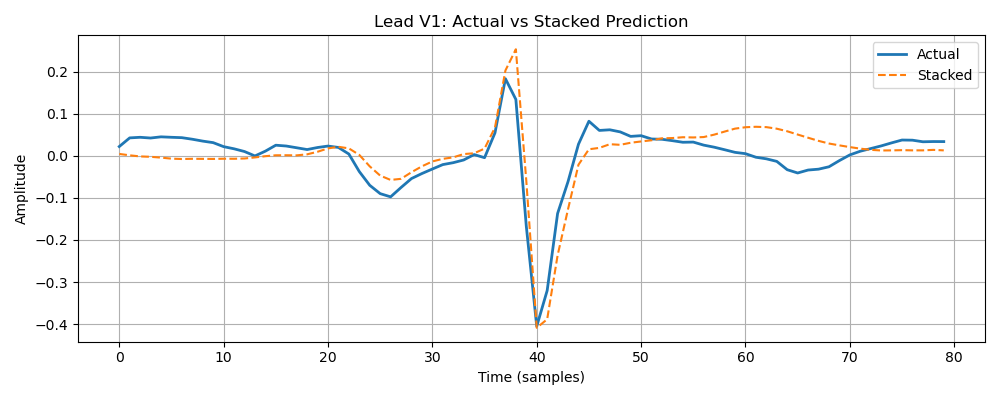
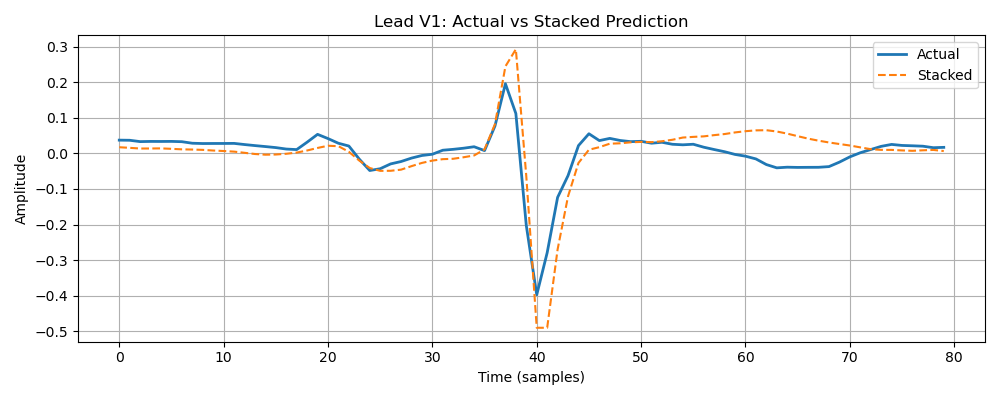
I, II, V2 (PQRST, Stats, Freq, Metadata, RR, PR, ST, QT). Stacking XGB + MLP. The best results so far.

diff --git a/QRS_to_Multilead_Reconstruction/PQRST_80_Extractor.py b/QRS_to_Multilead_Reconstruction/PQRST_80_Extractor.py
@@ -1,5 +1,5 @@
 # Modified to use V2 as an input like leads I and II
-# and V3 moved to other_leads to be predicted
+# Now saves rr1, rr2, rr3 (in seconds) for each segment
 
 import os
 import joblib
@@ -34,7 +34,6 @@ encoded_features = []
 if encoded_feats_path.exists():
     with open(encoded_feats_path, 'r') as f:
         encoded_features = [line.strip() for line in f.readlines()]
-
 
 def extract_stat_features(segment):
     hist, _ = np.histogram(segment, bins=10, density=True)
@@ -106,7 +105,7 @@ def build_dataset_with_stats(ecg_dataset, meta_df):
         r_v2 = nk.ecg_peaks(nk.ecg_clean(lead_v2, sampling_rate), sampling_rate)[1]['ECG_R_Peaks']
         r_v3 = nk.ecg_peaks(nk.ecg_clean(lead_v3, sampling_rate), sampling_rate)[1]['ECG_R_Peaks']
 
-        if len(r_i) == 0 or len(r_ii) == 0 or len(r_v2) == 0 or len(r_v3) == 0:
+        if len(r_i) < 2 or len(r_ii) < 2 or len(r_v2) < 2 or len(r_v3) == 0:
             continue
 
         p_i, q_i, r_i, s_i, t_i = find_qspt(lead_i, r_i, sampling_rate)
@@ -114,7 +113,8 @@ def build_dataset_with_stats(ecg_dataset, meta_df):
         p_v2, q_v2, r_v2, s_v2, t_v2 = find_qspt(lead_v2, r_v2, sampling_rate)
         p_v3, q_v3, r_v3, s_v3, t_v3 = find_qspt(lead_v3, r_v3, sampling_rate)
 
-        for j, r in enumerate(r_i):
+        for j in range(1, len(r_i)):
+            r = r_i[j]
             if j >= len(p_i) or j >= len(q_i) or j >= len(s_i) or j >= len(t_i):
                 continue
             r_ii_idx = np.argmin(np.abs(r_ii - r))
@@ -128,7 +128,7 @@ def build_dataset_with_stats(ecg_dataset, meta_df):
                 segment_i = lead_i[start:end]
                 segment_ii = lead_ii[start:end]
                 segment_v2 = lead_v2[start:end]
-                segment_v3 = lead_v3[start:end]
+                segment_v3 = lead_v2[start:end]
 
                 stats_i = extract_stat_features(segment_i)
                 stats_ii = extract_stat_features(segment_ii)
@@ -137,6 +137,10 @@ def build_dataset_with_stats(ecg_dataset, meta_df):
                 freq_i = extract_freq_features(segment_i, fs=sampling_rate)
                 freq_ii = extract_freq_features(segment_ii, fs=sampling_rate)
                 freq_v2 = extract_freq_features(segment_v2, fs=sampling_rate)
+
+                rr1 = (r_i[j] - r_i[j - 1]) / sampling_rate
+                rr2 = (r_ii[r_ii_idx] - r_ii[r_ii_idx - 1]) / sampling_rate if r_ii_idx > 0 else 0
+                rr3 = (r_v2[r_v2_idx] - r_v2[r_v2_idx - 1]) / sampling_rate if r_v2_idx > 0 else 0
 
                 other_leads_waveforms = {
                     lead_names[k]: sample[start:end, k] for k in range(12)
@@ -156,6 +160,9 @@ def build_dataset_with_stats(ecg_dataset, meta_df):
                                         (r_v2[r_v2_idx]/sampling_rate, lead_v2[r_v2[r_v2_idx]]),
                                         (s_v2[r_v2_idx]/sampling_rate, lead_v2[s_v2[r_v2_idx]]),
                                         (t_v2[r_v2_idx]/sampling_rate, lead_v2[t_v2[r_v2_idx]])],
+                    "rr1": rr1,
+                    "rr2": rr2,
+                    "rr3": rr3,
                     "stats_lead_I": stats_i,
                     "stats_lead_II": stats_ii,
                     "stats_lead_V2": stats_v2,
@@ -169,7 +176,6 @@ def build_dataset_with_stats(ecg_dataset, meta_df):
                     **onehot_features,
                     "source_index": i
                 })
-
     return dataset
 
 if __name__ == "__main__":
@@ -187,4 +193,3 @@ if __name__ == "__main__":
     joblib.dump(train_set, output_dir / "pqrst_stats_train_80.pkl")
     joblib.dump(test_set, output_dir / "pqrst_stats_test_80.pkl")
     print("✅ Done with V2-based PQRST dataset!")
-

diff --git a/QRS_to_Multilead_Reconstruction/Ensemble_Model.py b/QRS_to_Multilead_Reconstruction/Ensemble_Model.py
@@ -47,14 +47,15 @@ def extract_features_and_targets(data, target_lead):
             pqrst_II = seg['pqrst_lead_II']
             pqrst_V2 = seg['pqrst_lead_V2']
 
-            (_, ap1), (tq1, aq1), (tr1, ar1), (ts1, as1), (tt1, at1) = pqrst_I
-            (_, ap2), (tq2, aq2), (tr2, ar2), (ts2, as2), (tt2, at2) = pqrst_II
-            (_, ap3), (tq3, aq3), (tr3, ar3), (ts3, as3), (tt3, at3) = pqrst_V2
+            (tp1, ap1), (tq1, aq1), (tr1, ar1), (ts1, as1), (tt1, at1) = pqrst_I
+            (tp2, ap2), (tq2, aq2), (tr2, ar2), (ts2, as2), (tt2, at2) = pqrst_II
+            (tp3, ap3), (tq3, aq3), (tr3, ar3), (ts3, as3), (tt3, at3) = pqrst_V2
 
+            # New Intervals: PR, ST, QT, RR
             intervals = [
-                tr1 - tq1, ts1 - tq1, tt1 - tq1,
-                tr2 - tq2, ts2 - tq2, tt2 - tq2,
-                tr3 - tq3, ts3 - tq3, tt3 - tq3
+                tr1 - tp1, tt1 - ts1, tt1 - tq1, seg.get("rr1", 0),
+                tr2 - tp2, tt2 - ts2, tt2 - tq2, seg.get("rr2", 0),
+                tr3 - tp3, tt3 - ts3, tt3 - tq3, seg.get("rr3", 0)
             ]
 
             amplitudes = [

diff --git a/QRS_to_Multilead_Reconstruction/Testing_PQRST/Test_PQRST.py b/QRS_to_Multilead_Reconstruction/Testing_PQRST/Test_PQRST.py
@@ -16,7 +16,7 @@ lead_names = ['I', 'II', 'III', 'aVR', 'aVL', 'aVF', 'V1', 'V2', 'V3', 'V4', 'V5
 os.makedirs("PQRST_plots", exist_ok=True)
 
 # Load ECG dataset
-ecg_data = joblib.load("data_no_segmentation/ecg_test_clean.pkl")
+ecg_data = joblib.load("../data_no_segmentation/ecg_test_clean.pkl")
 
 def find_qspt(signal, r_peaks, sampling_rate, lead_name):
     pre_samples = int(pre_window * sampling_rate)
